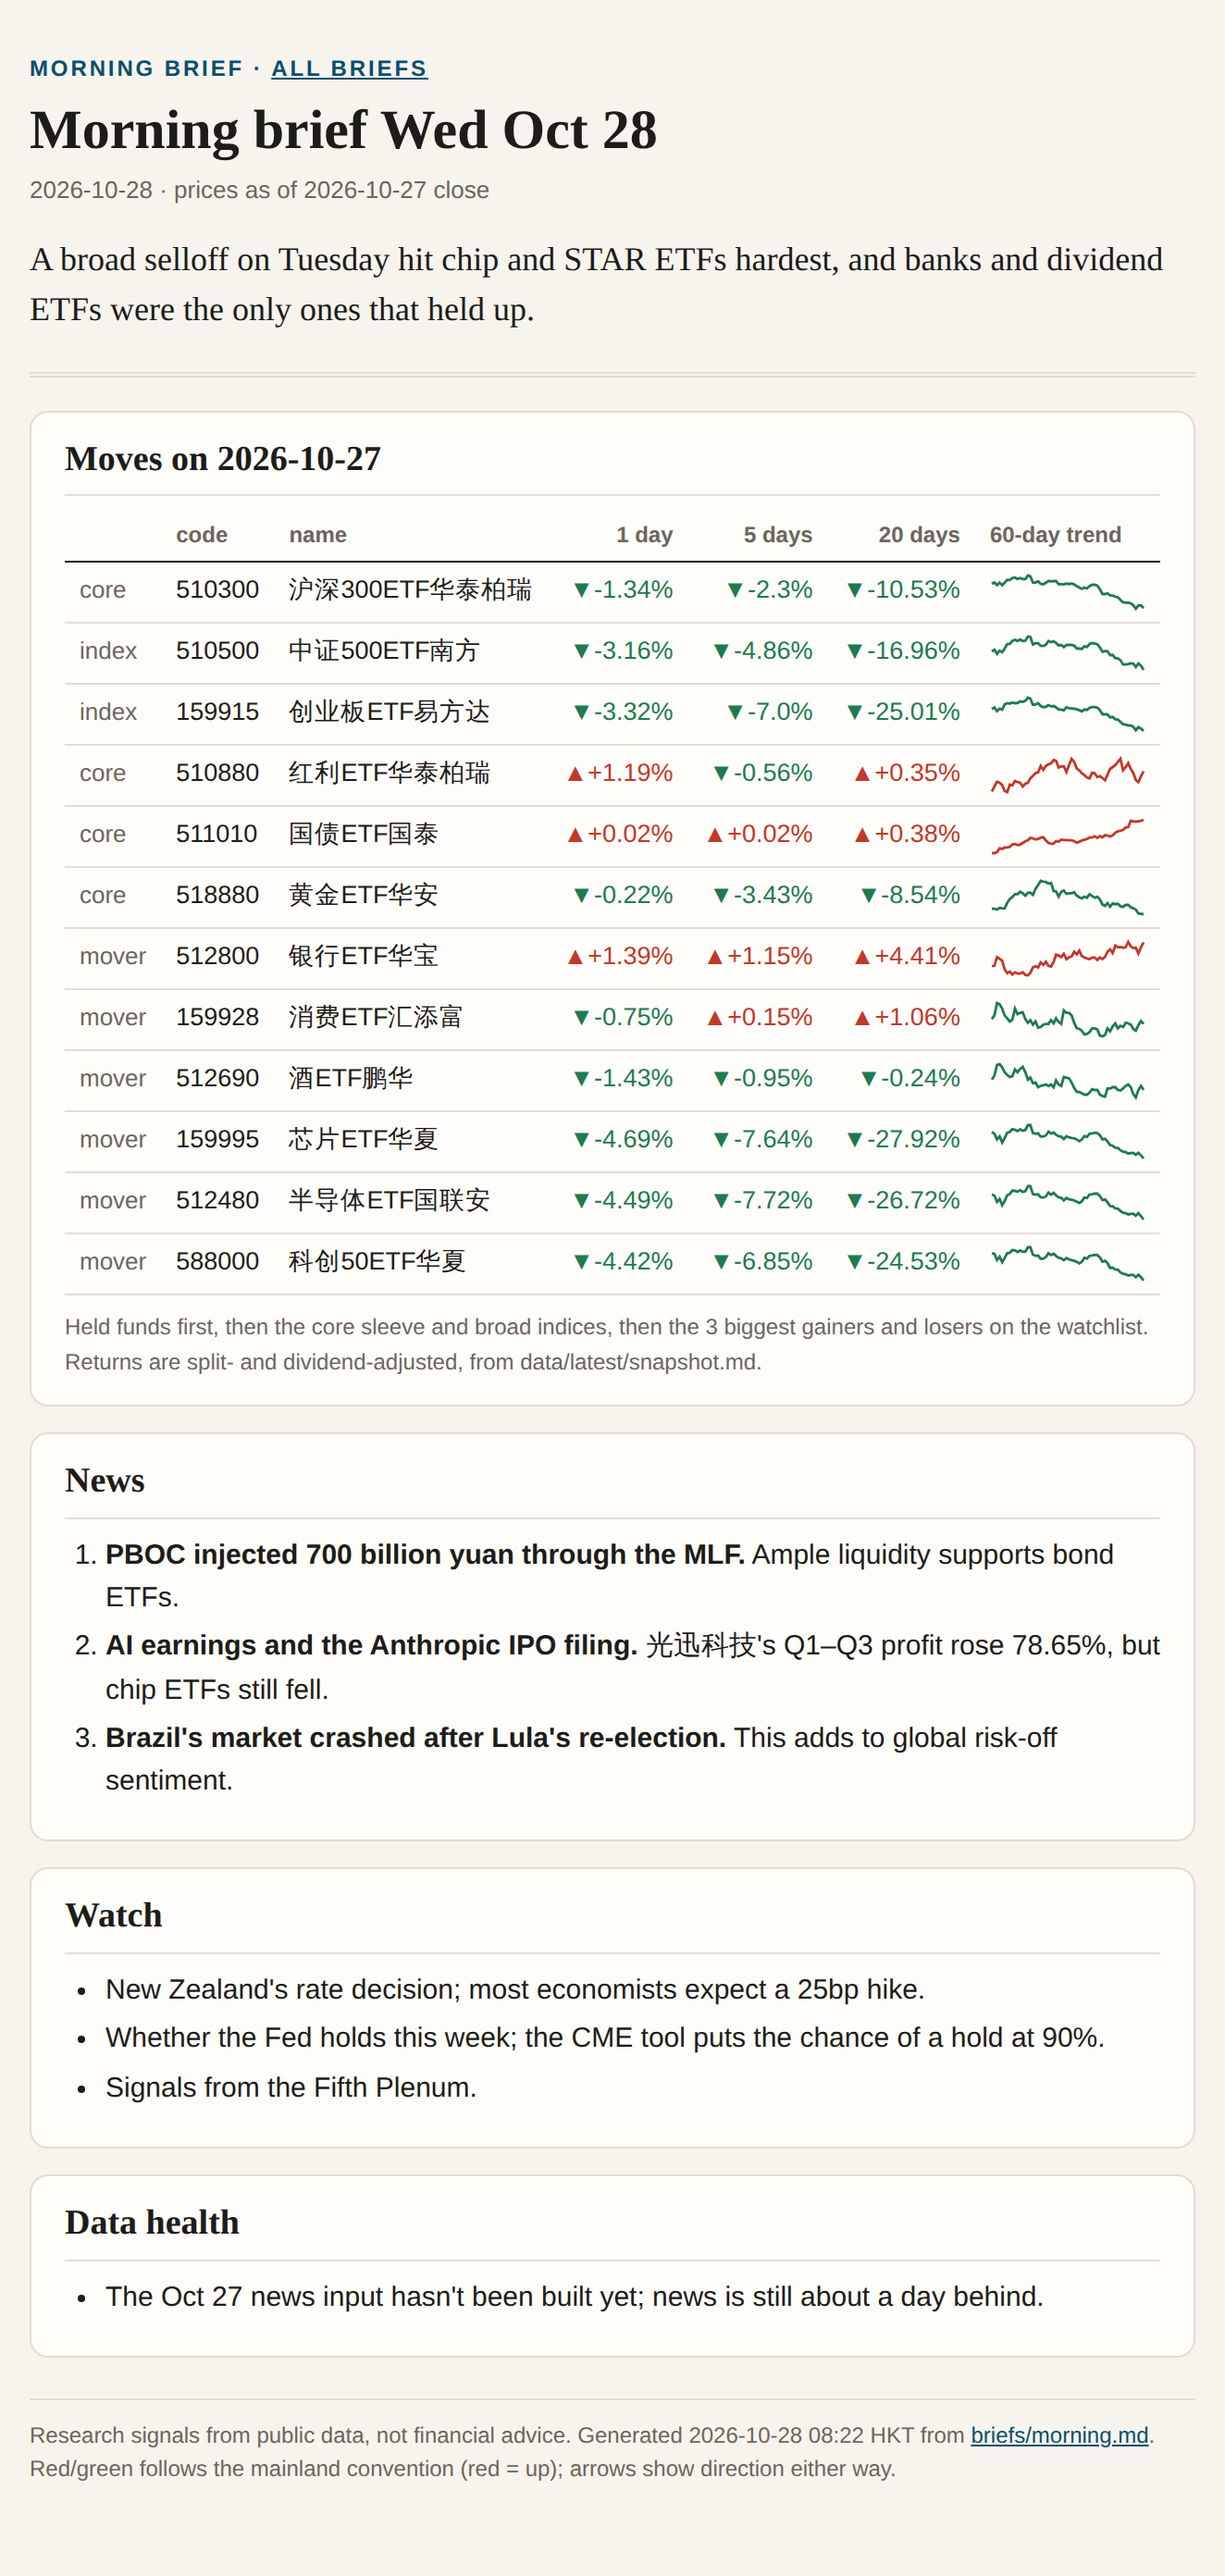
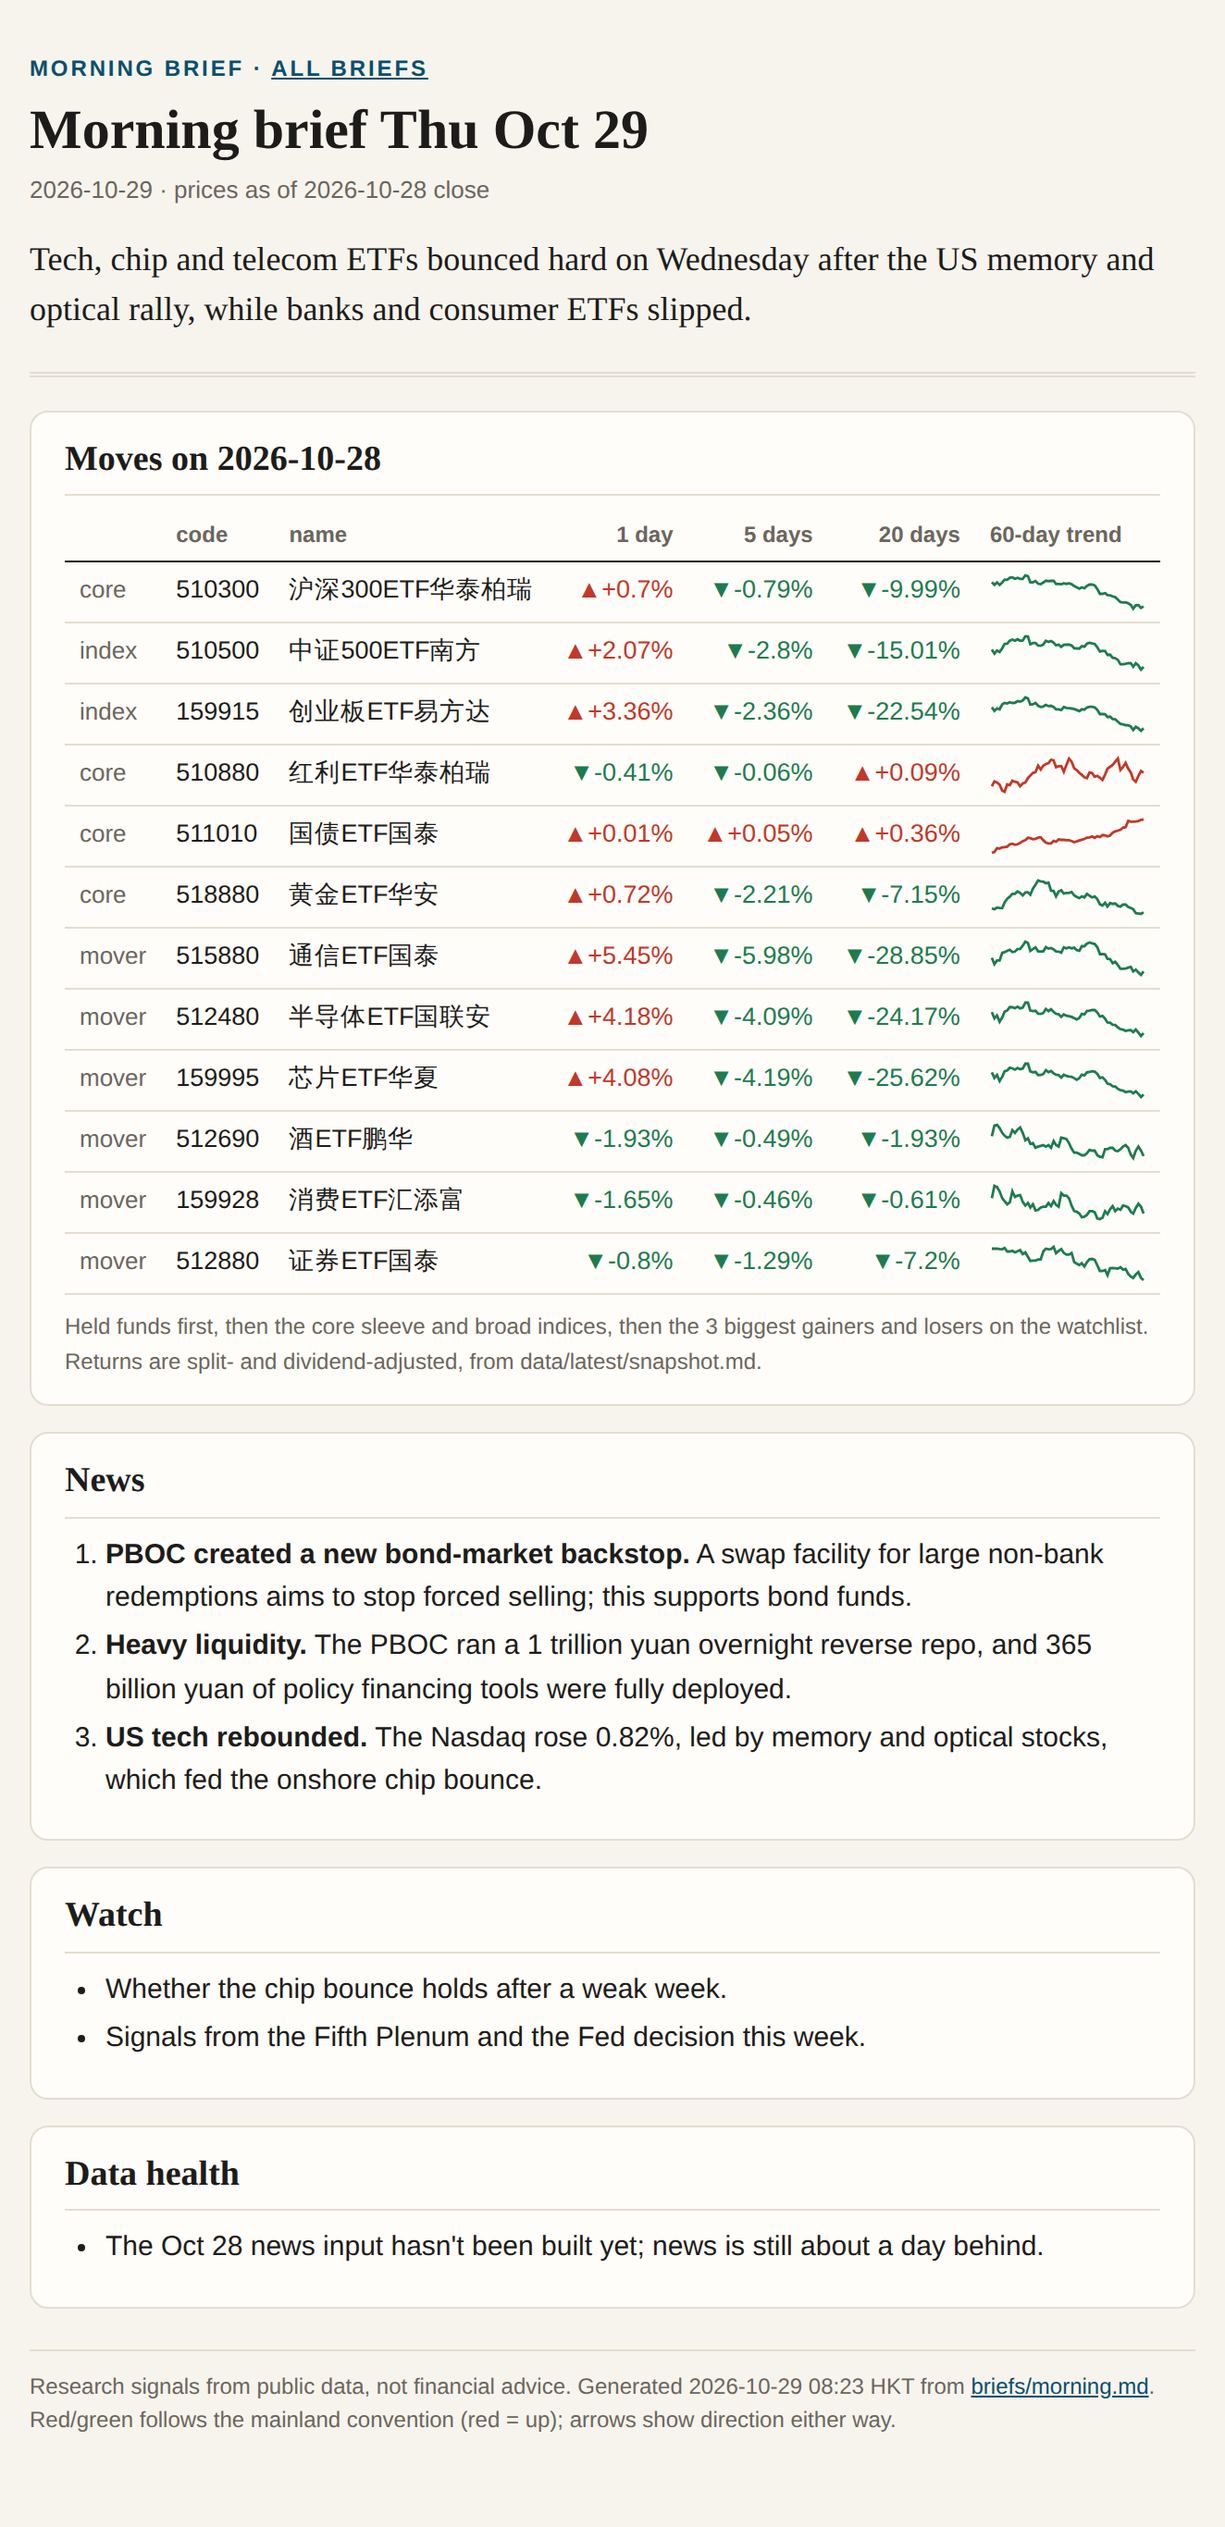
brief images 2026-10-29 08:24

diff --git a/briefs/README.md b/briefs/README.md
@@ -9,9 +9,9 @@ Screenshots of the latest HTML brief of each scheduled task, for the GitHub mobi
 
 <a id="morning"></a>
 
-## Morning brief: Morning brief Wed Oct 28
+## Morning brief: Morning brief Thu Oct 29
 
-2026-10-28 · prices as of 2026-10-27 close · updated 2026-10-28 08:22 HKT · [HTML](morning.html)
+2026-10-29 · prices as of 2026-10-28 close · updated 2026-10-29 08:23 HKT · [HTML](morning.html)
 
 ![Morning brief part 1](img/morning-1.png)
 
